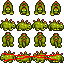
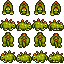
color mask

Changed region(s): [[0.0938, 0.8438, 0.9375, 0.9375], [0.0625, 0.9375, 0.125, 0.9688], [0.0312, 0.8125, 0.0938, 0.8438]]

diff --git a/TrinketTinker/Companions/Motions/Motion.cs b/TrinketTinker/Companions/Motions/Motion.cs
@@ -33,14 +33,14 @@ namespace TrinketTinker.Companions.Motions
             }
         }
         public abstract void Draw(SpriteBatch b);
-        protected virtual void DrawWithShadow(SpriteBatch b, float rotation, float layerDepth, Vector2 textureScale, Vector2 shadowScale)
+        protected virtual void DrawWithShadow(SpriteBatch b, float layerDepth, Vector2 textureScale, Vector2 shadowScale)
         {
             b.Draw(
                 c.Sprite.Texture,
                 Game1.GlobalToLocal(c.Position + c.Offset + c.Owner.drawOffset),
                 c.Sprite.SourceRect,
-                Color.White,
-                rotation,
+                c.SpriteColor,
+                c.rotation.Value,
                 c.SpriteOrigin,
                 textureScale,
                 (c.direction.Value < 0) ? SpriteEffects.FlipHorizontally : SpriteEffects.None,
@@ -50,7 +50,8 @@ namespace TrinketTinker.Companions.Motions
                 Game1.shadowTexture,
                 Game1.GlobalToLocal(c.Position + new Vector2(c.Offset.X, 0) + c.Owner.drawOffset),
                 Game1.shadowTexture.Bounds,
-                Color.White, 0f,
+                Color.White,
+                0f,
                 new Vector2(
                     Game1.shadowTexture.Bounds.Center.X, Game1.shadowTexture.Bounds.Center.Y
                 ),
@@ -59,17 +60,19 @@ namespace TrinketTinker.Companions.Motions
                 layerDepth - 2E-06f
             );
         }
+        // protected virtual void UpdateDirectionRotation(Vector2 position, Vector2 posDelta)
+        // {
+        // }
         protected virtual void UpdateDirection()
         {
             UpdateDirection(c.Position);
         }
         protected virtual void UpdateDirection(Vector2 position)
         {
-            Vector2 posDelta;
+            Vector2 posDelta = c.Anchor - position;
             switch (d.DirectionMode)
             {
                 case DirectionMode.DRUL:
-                    posDelta = c.Anchor - position;
                     if (Math.Abs(posDelta.X) > Math.Abs(posDelta.Y))
                     {
                         c.direction.Value = (c.Anchor.X > position.X) ? 2 : 4;
@@ -80,7 +83,6 @@ namespace TrinketTinker.Companions.Motions
                     }
                     break;
                 case DirectionMode.DRU:
-                    posDelta = c.Anchor - position;
                     if (Math.Abs(posDelta.X) > Math.Abs(posDelta.Y))
                     {
                         c.direction.Value = (c.Anchor.X > position.X) ? 2 : -2;
@@ -91,9 +93,11 @@ namespace TrinketTinker.Companions.Motions
                     }
                     break;
                 case DirectionMode.R:
-                    posDelta = c.Anchor - position;
                     if (Math.Abs(posDelta.X) > 8f)
                         c.direction.Value = (c.Anchor.X > position.X) ? 1 : -1;
+                    break;
+                case DirectionMode.Rotate:
+                    c.rotation.Value = (float)Math.Atan2(posDelta.Y, posDelta.X);
                     break;
                 case DirectionMode.None:
                     c.direction.Value = 0;

diff --git a/TrinketTinker/Companions/TrinketTinkerCompanion.cs b/TrinketTinker/Companions/TrinketTinkerCompanion.cs
@@ -17,7 +17,6 @@ namespace TrinketTinker.Companions
         protected readonly NetString _id = new("");
         public string ID => _id.Value;
         public AnimatedSprite Sprite { get; set; } = new();
-        public Vector2 SpriteOrigin { get; set; } = Vector2.Zero;
         protected readonly NetBool _moving = new(false);
         public bool Moving
         {
@@ -42,6 +41,7 @@ namespace TrinketTinker.Companions
                 _offset.Value = value;
             }
         }
+        public readonly NetFloat rotation = new(0f);
         // Derived
         public CompanionData? Data;
         public Motion? Motion
@@ -53,6 +53,8 @@ namespace TrinketTinker.Companions
                 return Utility.PointToVector2(this.Owner.GetBoundingBox().Center);
             }
         }
+        public Vector2 SpriteOrigin { get; set; } = Vector2.Zero;
+        public Color SpriteColor => Data?.Variants[whichVariant.Value].ColorMask ?? Color.White;
 
         public TrinketTinkerCompanion() : base()
         {
@@ -87,6 +89,7 @@ namespace TrinketTinker.Companions
                 .AddField(_id, "_id")
                 .AddField(_moving, "_moving")
                 .AddField(_offset, "_offset")
+                .AddField(rotation, "rotation")
             ;
             _id.fieldChangeEvent += InitCompanionData;
             _moving.fieldChangeEvent += (NetBool field, bool oldValue, bool newValue) => { _moving.Value = newValue; };

diff --git a/TrinketTinker/Companions/Motions/OrbitMotion.cs b/TrinketTinker/Companions/Motions/OrbitMotion.cs
@@ -11,24 +11,26 @@ namespace TrinketTinker.Companions.Motions
 
         public OrbitMotion(TrinketTinkerCompanion companion, MotionData data) : base(companion, data)
         {
-            MotionOffset.Y -= 32f;
+            MotionOffset.Y -= 64f;
         }
 
         public override void UpdateLocal(GameTime time, GameLocation location)
         {
             base.UpdateLocal(time, location);
             theta += time.ElapsedGameTime.TotalSeconds;
-            c.Offset = MotionOffset + new Vector2(128 * (float)Math.Cos(Math.PI * theta), 64 * (float)Math.Sin(Math.PI * theta));
+            c.Offset = MotionOffset + new Vector2(
+                96 * (float)Math.Cos(Math.PI * theta),
+                40 * (float)Math.Sin(Math.PI * theta)
+            );
             if (theta >= 2f)
                 theta = 0f;
         }
         public override void Draw(SpriteBatch b)
         {
             DrawWithShadow(
-                b, 0f,
-                (c.Position.Y + c.Offset.Y - MotionOffset.Y) / 10000f,
-                new Vector2(4f, 4f),
-                new Vector2(3f, 3f)
+                b, (c.Position.Y + c.Offset.Y - MotionOffset.Y) / 10000f,
+                new Vector2(d.TextureScale, d.TextureScale) * Utility.Lerp(0.96f, 1f, (float)Math.Sin(Math.PI * theta)),
+                new Vector2(d.ShadowScale, d.ShadowScale)
             );
         }
     }

diff --git a/TrinketTinker/Companions/Motions/StaticMotion.cs b/TrinketTinker/Companions/Motions/StaticMotion.cs
@@ -29,10 +29,9 @@ namespace TrinketTinker.Companions.Motions
         public override void Draw(SpriteBatch b)
         {
             DrawWithShadow(
-                b, 0f,
-                (c.direction.Value == 3) ? (c.Position.Y / 10000f) : 1f,
-                new Vector2(4f, 4f),
-                new Vector2(3f, 3f)
+                b, (c.direction.Value == 3) ? (c.Position.Y / 10000f) : 1f,
+                new Vector2(d.TextureScale, d.TextureScale),
+                new Vector2(d.ShadowScale, d.ShadowScale)
             );
         }
         protected override void UpdateDirection()

diff --git a/TrinketTinker/Companions/Motions/LerpMotion.cs b/TrinketTinker/Companions/Motions/LerpMotion.cs
@@ -68,12 +68,13 @@ namespace TrinketTinker.Companions.Motions
             }
             c.Moving = lerp >= 0;
         }
+
         public override void Draw(SpriteBatch b)
         {
             float shadowScale = 3f * Utility.Lerp(1f, 0.8f, Math.Max(1f, -c.Offset.Y / 12));
             DrawWithShadow(
-                b, 0f, c.Position.Y / 10000f,
-                new Vector2(4f, 4f),
+                b, c.Position.Y / 10000f,
+                new Vector2(d.TextureScale, d.TextureScale),
                 new Vector2(shadowScale, shadowScale)
             );
         }

diff --git a/TrinketTinker/Models/MotionData.cs b/TrinketTinker/Models/MotionData.cs
@@ -7,6 +7,7 @@ namespace TrinketTinker.Models
         RL = 2,
         DRU = 3,
         DRUL = 4,
+        Rotate = 5,
     }
     public class MotionData
     {
@@ -18,5 +19,7 @@ namespace TrinketTinker.Models
         public float Interval { get; set; } = 100f;
         public float OffsetX { get; set; } = 0f;
         public float OffsetY { get; set; } = 0f;
+        public float TextureScale { get; set; } = 4f;
+        public float ShadowScale { get; set; } = 3f;
     }
 }

diff --git a/TrinketTinker/Models/VariantData.cs b/TrinketTinker/Models/VariantData.cs
@@ -1,3 +1,4 @@
+using Microsoft.Xna.Framework;
 using StardewValley;
 
 namespace TrinketTinker.Models
@@ -7,6 +8,7 @@ namespace TrinketTinker.Models
         public string Texture { get; set; } = "";
         public int Width { get; set; } = 16;
         public int Height { get; set; } = 16;
+        public Color ColorMask { get; set; } = Color.White;
 
         public AnimatedSprite MakeAnimatedSprite()
         {
